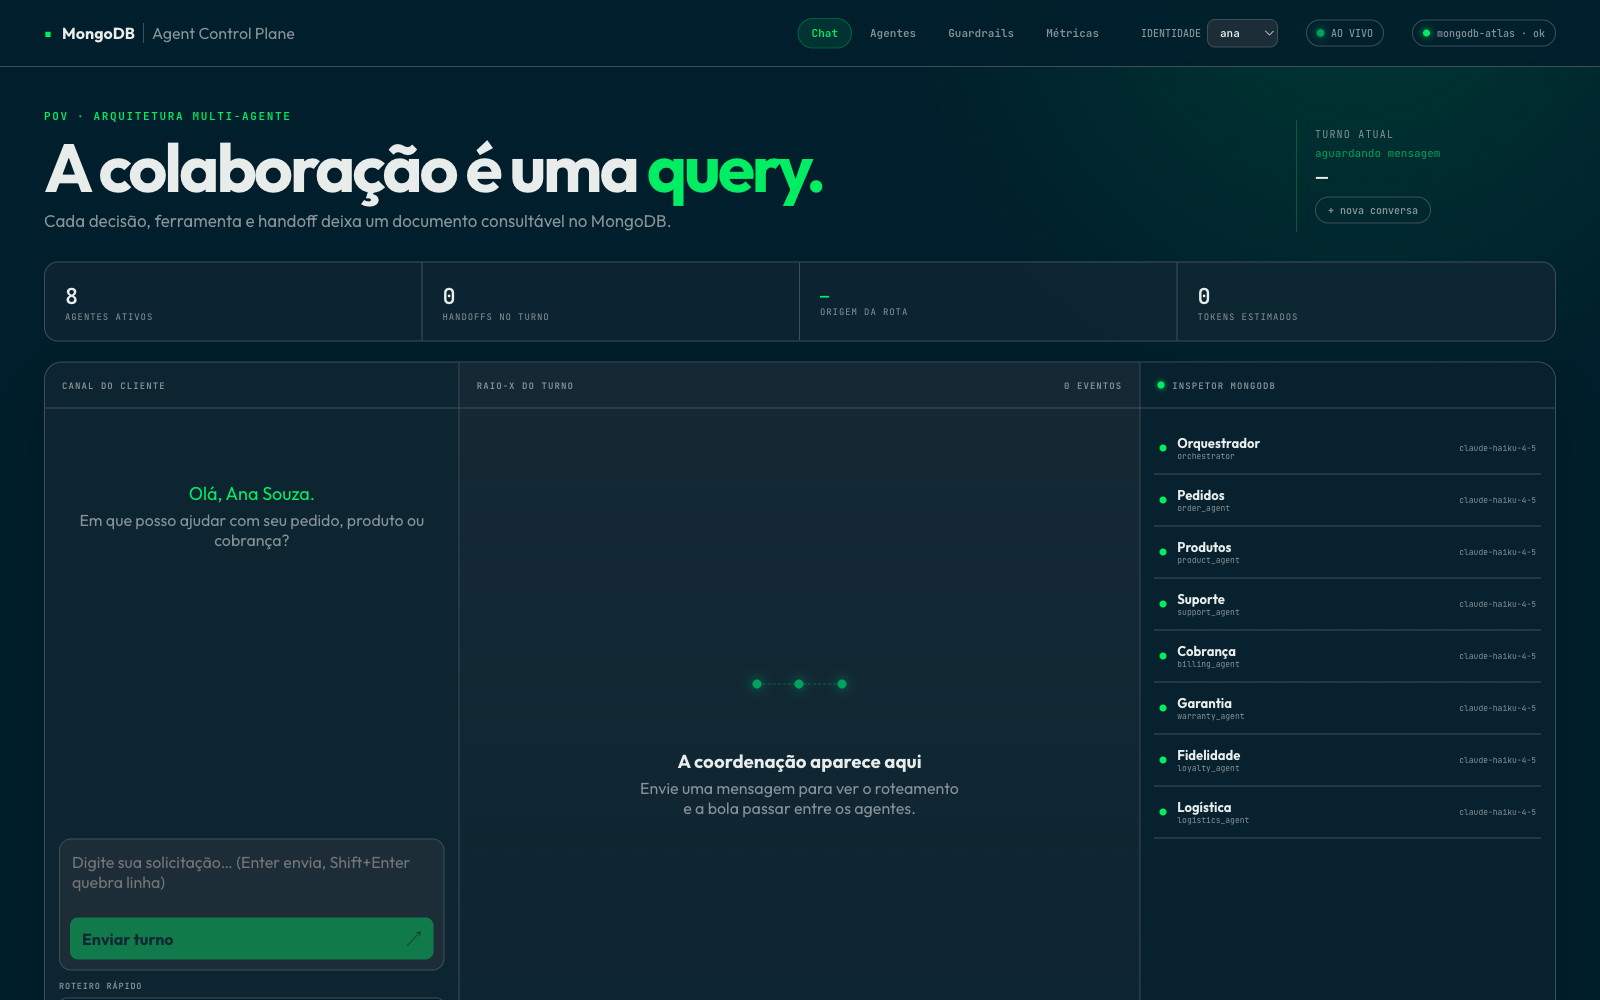
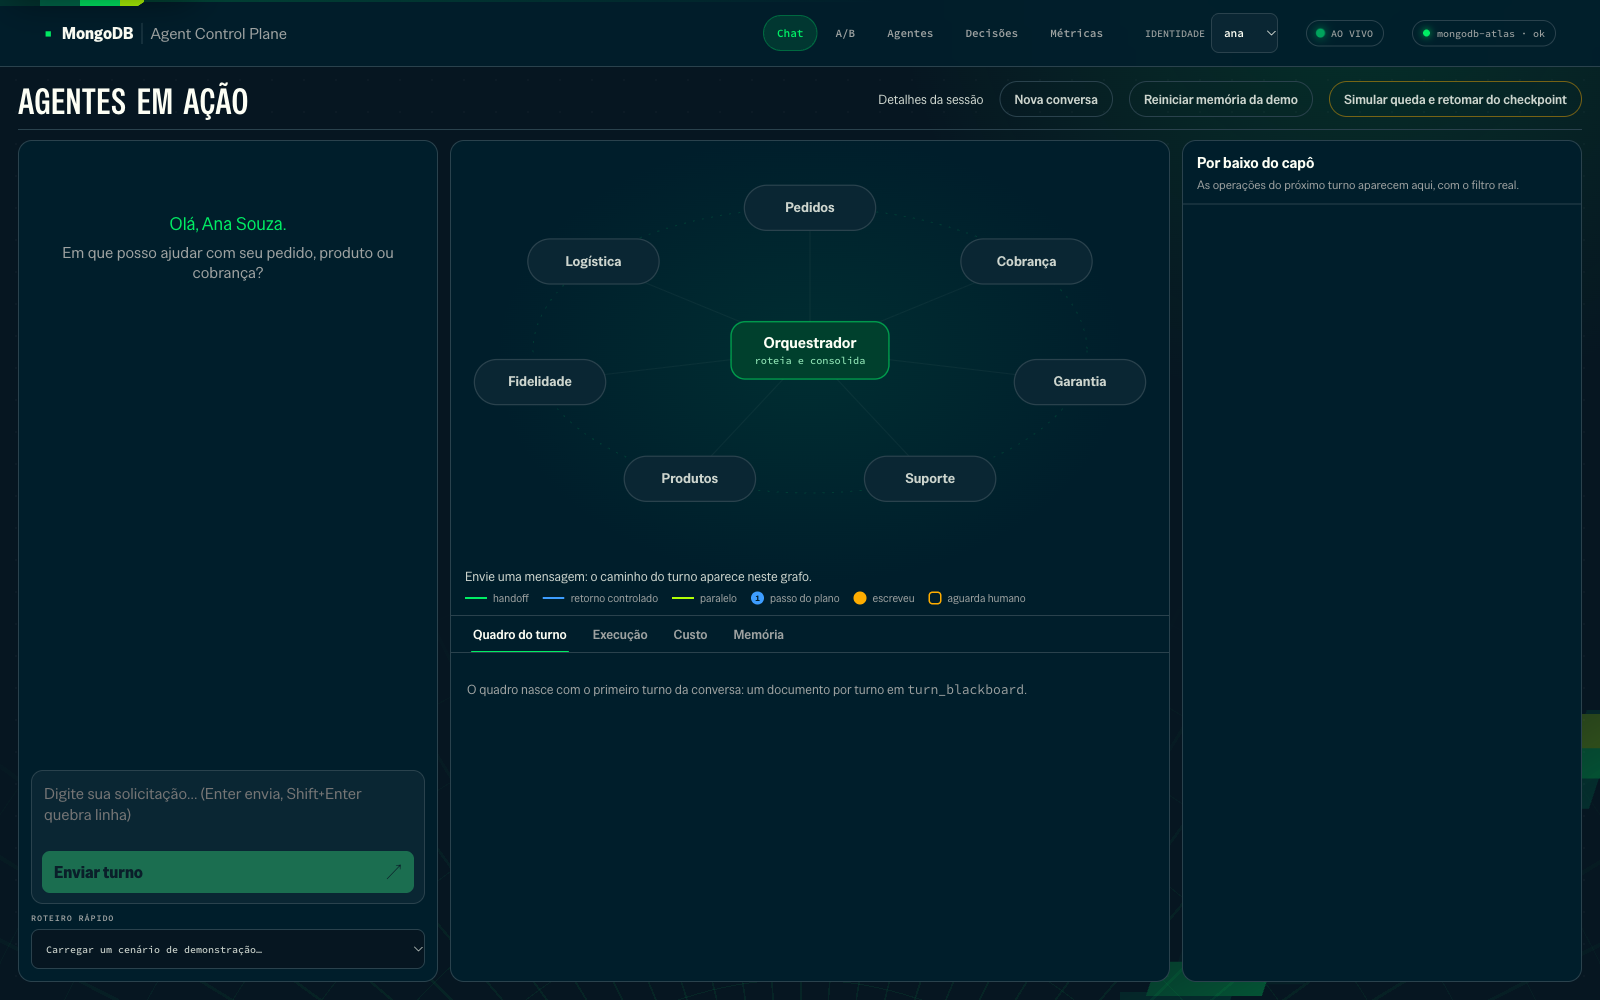
docs(ui): narrativa do turno, nós do grafo e cenários do A/B

diff --git a/docs/briefing/ui-flows.md b/docs/briefing/ui-flows.md
@@ -20,16 +20,18 @@ Três colunas que cabem na viewport (a conversa nunca é empurrada para baixo da
 **Fluxo de uma interação**:
 1. Cliente digita mensagem (ou carrega um "roteiro rápido" de `GET /api/demo-scenarios`) e envia (`Enter` ou "Enviar turno").
 2. `POST /api/chat/stream` roda o turno; cada `TimelineEvent` chega em SSE e redesenha o grafo e o capô na hora.
-3. **Grafo ao vivo** (`AgentGraph.jsx`, derivado por `graphModel.js::deriveTurn`): orquestrador no centro e especialistas de `GET /api/graph/topology` em volta (desligados ficam tracejados). O nó ativo pulsa; cada roteamento/handoff desenha a aresta na ordem em que aconteceu (verde = handoff, azul = retorno controlado, lima = despacho paralelo, com duas arestas simultâneas); números azuis são os passos do plano do orquestrador; o selo laranja marca agente que escreveu; a escrita pausada mostra o cadeado "aguardando analista"; a aresta tracejada de volta ao centro é a consolidação. Ao final, `agent_path` do resultado define a ordem exibida. Com `prefers-reduced-motion` não há pulso nem traçado animado.
+3. **Grafo ao vivo** (`AgentGraph.jsx`, derivado por `graphModel.js::deriveTurn`): orquestrador no centro e especialistas de `GET /api/graph/topology` em volta (desligados ficam tracejados). Cada nó mostra só o nome e um resumo curto ("2 tools", "aguarda analista", "consolidou"); tools usadas, escritas e passo do plano ficam no tooltip, e o texto nunca passa da borda do nó. O nó ativo pulsa; cada roteamento/handoff desenha a aresta na ordem em que aconteceu (verde = handoff, azul = retorno controlado, lima = despacho paralelo, com duas arestas simultâneas); números azuis são os passos do plano do orquestrador; o selo laranja marca agente que escreveu; a escrita pausada mostra o cadeado "aguardando analista"; a aresta tracejada de volta ao centro é a consolidação. Ao final, `agent_path` do resultado define a ordem exibida. Com `prefers-reduced-motion` não há pulso nem traçado animado.
 4. **Por baixo do capô** (`UnderTheHood.jsx`, `mongoOps.js`): uma linha por operação MongoDB do turno (collection, operação e o filtro real, mascarado), com selos para `$vectorSearch`, `$rankFusion`, `$rerank`, `$graphLookup`, transação, escrita no `turn_blackboard`, interrupt em `pending_reviews` e escrita em `agent_handoffs` que dispara o Change Stream. No pé, os eventos que o Change Stream entregou ao navegador nesta sessão.
-5. Abas sob o grafo:
+5. Abas sob o grafo (cada uma com uma linha explicando o que mostra):
+   - **Como o time resolveu** (padrão; `TurnNarrative.jsx`, derivado por `turnNarrative.js::narrateTurn` só a partir dos eventos da timeline): etapa por etapa em linguagem simples — guardrail de entrada, roteamento (regra/classificador, com a confiança), plano do orquestrador, cada agente (o que consultou ou gravou e para quem passou a vez), pausa humana, decisão do analista, consolidação, memória e guardrail de saída. Cada etapa traz "Por que importa" e as coleções que tocou; clicar numa coleção leva à linha correspondente do capô; passar o mouse destaca a etapa no grafo.
    - **Quadro do turno** (`BlackboardView.jsx`): `GET /api/blackboard/latest` depois de cada turno — plano, especialidades detectadas e uma entrada por hop (modo, tools com efeito, escritas, para quem passou). A cadeia de trocas (`ReplacementChain.jsx`, `$graphLookup`) aparece aqui quando o turno a tocou.
    - **Execução** (`Timeline.jsx`): a timeline completa, com `QueryDetails.jsx` em cada evento. A busca web aparece como **fonte externa** (categoria `web`, op `external`), sem o selo MongoDB.
    - **Custo** (`CostPanel.jsx::TurnCost`): custo estimado, HIT/MISS da cascata semântica, prompt cache do provedor e `llm_calls` agrupadas por agente (custo desconhecido aparece como "não informado", nunca zero).
    - **Memória** (`TypedMemory.jsx`): `GET /api/memory-typed` — semântica (`customer_memory`), episódica (`long_term_memory`, só rótulos) e procedural (`agent_registry`, `routing_rules`, `hitl_policies`).
 6. **Escrita sensível pausada (HITL)**: quando o resultado traz `awaiting_approval`, a resposta ganha o cartão "Aguardando analista" (review id, tool, argumentos, motivo) e o botão para abrir a fila. Quando o analista decide, o handoff `human_reviewer → agente` chega pelo Change Stream e o chat relê `GET /api/conversations/latest` até a resposta retomada aparecer (marcada "após decisão humana"); se a decisão foi tomada nesta mesma aba, o `resumed_turn` do resolve entra direto.
 7. **"Simular queda e retomar do checkpoint"** (`App.jsx::simulateCrash`): abre uma conversa nova e chama `POST /api/demo/crash-resume` (usa o texto da caixa ou uma cadeia pedido → logística → pedido da identidade). O diálogo (`CrashResume.jsx`) mostra a queda, `checkpoint_id`, próximo nó e hops concluídos antes da retomada, o caminho retomado e a conferência em `GET /api/handoffs` de que nenhum handoff foi gravado duas vezes.
-8. Chips de **"posso seguir com"** — sugestões de próximo turno, numa linha rolável, cada uma com a mensagem exata que dispara aquele fluxo.
+8. Chips de **"posso seguir com"** — sugestões de próximo turno, quebrando linha (todas legíveis), cada uma com a mensagem exata que dispara aquele fluxo.
+9. A resposta de um turno com mais de um agente vem assinada "Orquestrador · resposta consolidada de N agentes" (o último agente fica no tooltip).
 
 **Roteiros de demo por identidade** (`GET /api/demo-scenarios`, ordenados por `position`): além dos cenários multiagente, cada uma das 4 identidades tem 6 chips que exercitam as três camadas de memória e o cache (`seed_data.py:MEMORY_DEMOS`, campo `demo_kind`):
 
@@ -49,7 +51,7 @@ Um clique em **"Nova conversa"** zera `conversation_id`, mensagens, timeline e m
 
 ## Aba A/B (`components/ComparePage.jsx`)
 
-A mesma pergunta (pré-preenchida com o cenário multiagente mais longo da identidade) para um generalista com todas as tools e para o time (`POST /api/compare`). Mostra lado a lado resposta, notas do juiz LLM (completude, coerência, grounding) em barras, latência, tokens, custo, agentes e tools. Escritas são simuladas nos dois braços; com modelo real leva de 30 a 90 s, com progresso por etapa. Sem modelo (DEMO_MODE) os braços aparecem como indisponíveis.
+Cartões de cenário por identidade (`compareScenarios.js`), cada um com "o que este cenário testa": pergunta simples (tende a favorecer o agente único), pedido + fatura, pedido composto (o principal), garantia → catálogo, reembolso com aprovação (no A/B a política HITL vira pausa simulada) e pergunta livre. As mensagens vêm do `GET /api/demo-scenarios` da identidade ou de textos fixos com os ids dela. "Rodar os 5 em sequência" respeita o limite de 3 por minuto do endpoint (contagem regressiva, pode parar) e monta um resumo cenário × latência/custo/juiz com o braço melhor em verde. O quadro "Como ler o resultado" explica que o agente único ganha em latência e custo em pedidos simples e o time ganha em completude e coerência em pedidos compostos. A mesma pergunta vai para um generalista com todas as tools (o dobro de rodadas, porque cobre o pedido sozinho) e para o time (`POST /api/compare`). Mostra lado a lado resposta, notas do juiz LLM (completude, coerência, grounding) em barras, latência, tokens, custo, agentes e tools. Escritas são simuladas nos dois braços; com modelo real leva de 30 a 90 s, com progresso por etapa. Sem modelo (DEMO_MODE) os braços aparecem como indisponíveis.
 
 ## Aba Agentes (`components/AgentsPage.jsx`)
 
